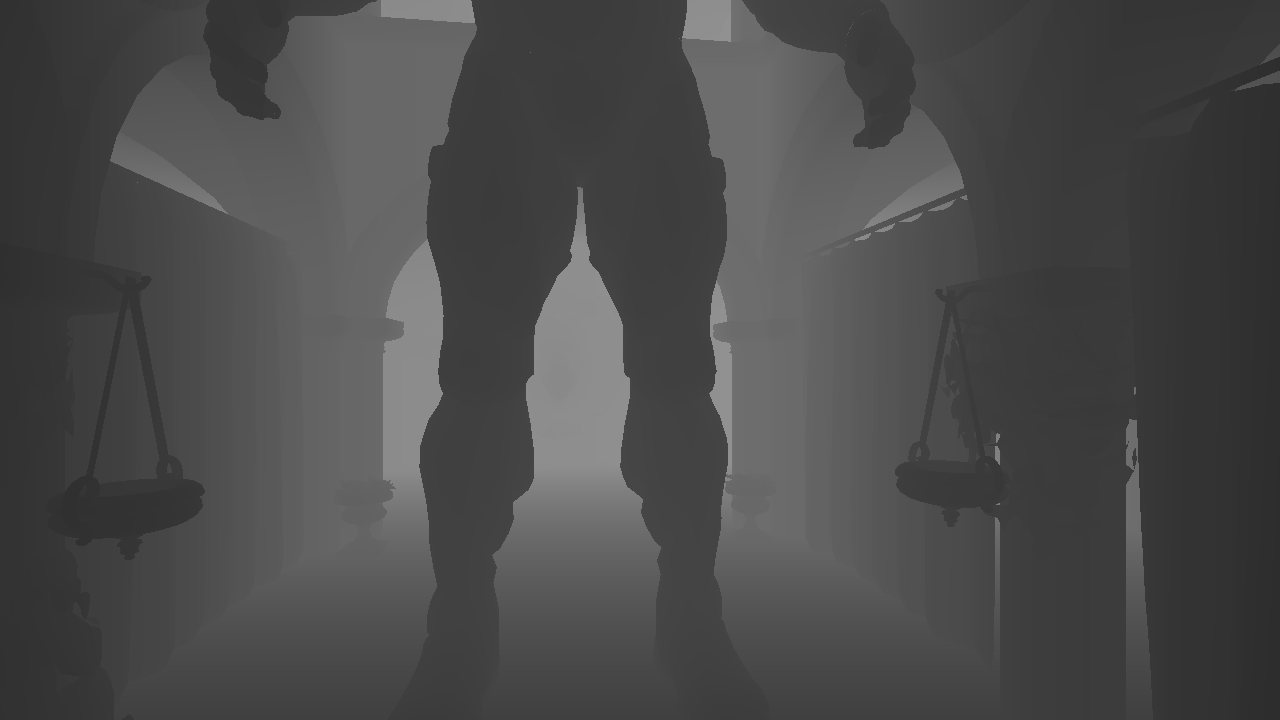
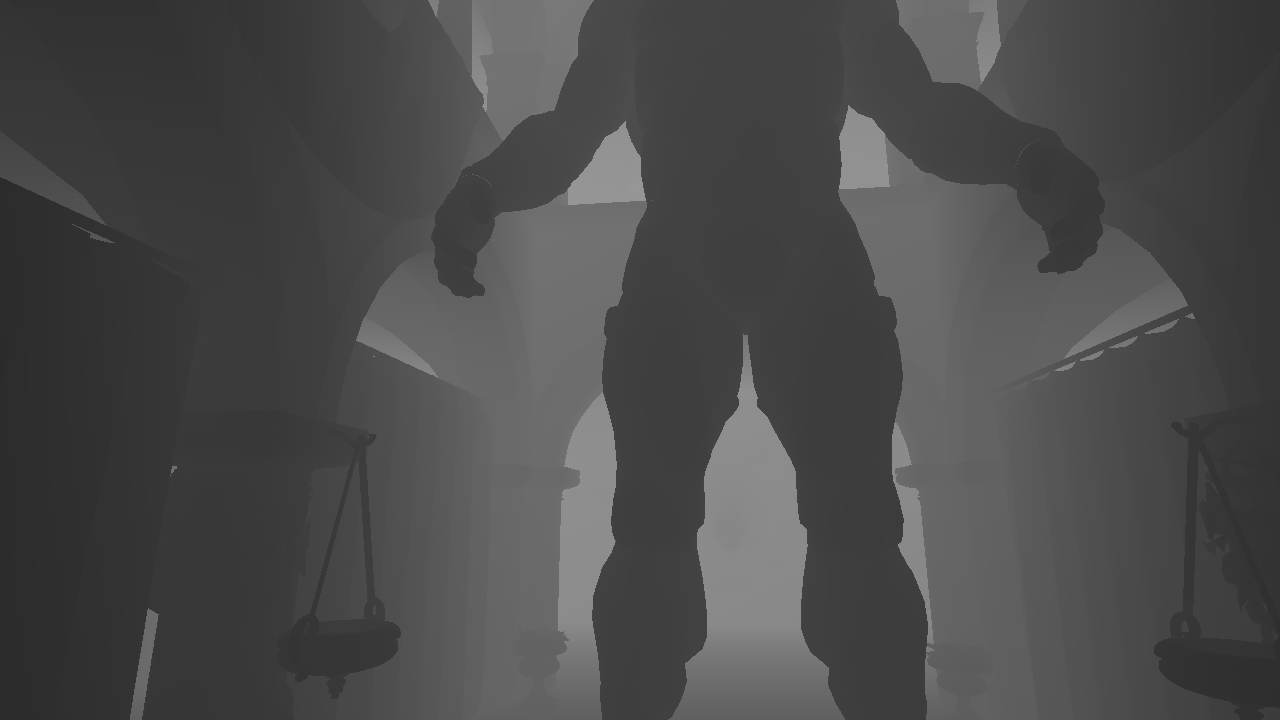
shadow camera transform to lambertian pass

diff --git a/hw3d/LambertianPass.h b/hw3d/LambertianPass.h
@@ -6,6 +6,8 @@
 #include "Source.h"
 #include "Stencil.h"
 #include "Camera.h"
+#include "DepthStencil.h"
+#include "ShadowCameraCBuf.h"
 
 class Graphics;
 
@@ -14,28 +16,38 @@ namespace Rgph
 	class LambertianPass : public RenderQueuePass
 	{
 	public:
-		void BindMainCamera(const Camera& cam) noexcept
-		{
-			pMainCamera = &cam;
-		}
 		LambertianPass(Graphics& gfx, std::string name)
 			:
-			RenderQueuePass(std::move(name))
+			RenderQueuePass(std::move(name)),
+			pShadowCBuf{ std::make_shared<Bind::ShadowCameraCBuf>(gfx) }
 		{
 			using namespace Bind;
+			AddBind(pShadowCBuf);
 			RegisterSink(DirectBufferSink<RenderTarget>::Make("renderTarget", renderTarget));
 			RegisterSink(DirectBufferSink<DepthStencil>::Make("depthStencil", depthStencil));
+			RegisterSink(DirectBindableSink<Bind::Bindable>::Make("shadowMap", pShadowMap));
 			RegisterSource(DirectBufferSource<RenderTarget>::Make("renderTarget", renderTarget));
 			RegisterSource(DirectBufferSource<DepthStencil>::Make("depthStencil", depthStencil));
 			AddBind(Stencil::Resolve(gfx, Stencil::Mode::Off));
 		}
+		void BindMainCamera(const Camera& cam) noexcept
+		{
+			pMainCamera = &cam;
+		}
+		void BindShadowCamera(const Camera& cam) noexcept
+		{
+			pShadowCBuf->SetCamera(&cam);
+		}
 		void Execute(Graphics& gfx) const noxnd override
 		{
 			assert(pMainCamera);
+			pShadowCBuf->Update(gfx);
 			pMainCamera->BindToGraphics(gfx);
 			RenderQueuePass::Execute(gfx);
 		}
 	private:
+		std::shared_ptr<Bind::ShadowCameraCBuf> pShadowCBuf;
+		std::shared_ptr<Bind::Bindable> pShadowMap;
 		const Camera* pMainCamera = nullptr;
 	};
 }

diff --git a/hw3d/ShadowCameraCBuf.cpp b/hw3d/ShadowCameraCBuf.cpp
@@ -1,0 +1,30 @@
+#include "ShadowCameraCBuf.h"
+#include "Camera.h"
+
+namespace dx = DirectX;
+
+namespace Bind
+{
+	ShadowCameraCBuf::ShadowCameraCBuf(Graphics& gfx, UINT slot)
+		:
+		pVcbuf{ std::make_unique<VertexConstantBuffer<Transform>>(gfx,slot) }
+	{
+	}
+	void ShadowCameraCBuf::Bind(Graphics& gfx) noxnd
+	{
+		pVcbuf->Bind(gfx);
+	}
+	void ShadowCameraCBuf::Update(Graphics& gfx)
+	{
+		const Transform t{
+			dx::XMMatrixTranspose(
+				pCamera->GetMatrix() * pCamera->GetProjection()
+			)
+		};
+		pVcbuf->Update(gfx, t);
+	}
+	void ShadowCameraCBuf::SetCamera(const Camera* p) noexcept
+	{
+		pCamera = p;
+	}
+}

diff --git a/hw3d/BlurOutlineRenderGraph.cpp b/hw3d/BlurOutlineRenderGraph.cpp
@@ -36,6 +36,7 @@ namespace Rgph
 		}
 		{
 			auto pass = std::make_unique<LambertianPass>(gfx, "lambertian");
+			pass->SetSinkLinkage("shadowMap", "shadowMap.map");
 			pass->SetSinkLinkage("renderTarget", "clearRT.buffer");
 			pass->SetSinkLinkage("depthStencil", "clearDS.buffer");
 			AppendPass(std::move(pass));
@@ -195,5 +196,6 @@ namespace Rgph
 	void Rgph::BlurOutlineRenderGraph::BindShadowCamera(Camera& cam)
 	{
 		dynamic_cast<ShadowMappingPass&>(FindPassByName("shadowMap")).BindShadowCamera(cam);
+		dynamic_cast<LambertianPass&>(FindPassByName("lambertian")).BindShadowCamera(cam);
 	}
 }

diff --git a/hw3d/ShadowCameraCBuf.h b/hw3d/ShadowCameraCBuf.h
@@ -1,0 +1,25 @@
+#pragma once
+#include "Bindable.h"
+#include "ConstantBuffers.h"
+
+class Camera;
+
+namespace Bind
+{
+	class ShadowCameraCBuf : public Bindable
+	{
+	protected:
+		struct Transform
+		{
+			DirectX::XMMATRIX ViewProj;
+		};
+	public:
+		ShadowCameraCBuf(Graphics& gfx, UINT slot = 3u);
+		void Bind(Graphics& gfx) noxnd override;
+		void Update(Graphics& gfx);
+		void SetCamera(const Camera* pCamera) noexcept;
+	private:
+		std::unique_ptr<VertexConstantBuffer<Transform>> pVcbuf;
+		const Camera* pCamera = nullptr;
+	};
+}

diff --git a/hw3d/Camera.h b/hw3d/Camera.h
@@ -16,6 +16,7 @@ public:
 	Camera(Graphics& gfx, std::string name, DirectX::XMFLOAT3 homePos = { 0.0f,0.0f,0.0f }, float homePitch = 0.0f, float homeYaw = 0.0f, bool tethered = false) noexcept;
 	void BindToGraphics(Graphics& gfx) const;
 	DirectX::XMMATRIX GetMatrix() const noexcept;
+	DirectX::XMMATRIX GetProjection() const noexcept;
 	void SpawnControlWidgets(Graphics& gfx) noexcept;
 	void Reset(Graphics& gfx) noexcept;
 	void Rotate(float dx, float dy) noexcept;

diff --git a/hw3d/RenderGraph.cpp b/hw3d/RenderGraph.cpp
@@ -109,6 +109,13 @@ namespace Rgph
 		{
 			const auto& inputSourcePassName = si->GetPassName();
 
+			if (inputSourcePassName.empty())
+			{
+				std::ostringstream oss;
+				oss << "In pass named [" << pass.GetName() << "] sink named [" << si->GetRegisteredName() << "] has no target source set.";
+				throw RGC_EXCEPTION(oss.str());
+			}
+
 			// check check whether target source is global
 			if (inputSourcePassName == "$")
 			{

diff --git a/hw3d/ShadowMappingPass.h b/hw3d/ShadowMappingPass.h
@@ -32,7 +32,7 @@ namespace Rgph
 			AddBind(NullPixelShader::Resolve(gfx));
 			AddBind(Stencil::Resolve(gfx, Stencil::Mode::Off));
 			AddBind(Blender::Resolve(gfx, false));
-			RegisterSource(DirectBindableSource<Bind::DepthStencil>::Make("shadowMap", depthStencil));
+			RegisterSource(DirectBindableSource<Bind::DepthStencil>::Make("map", depthStencil));
 		}
 		void Execute(Graphics& gfx) const noxnd override
 		{

diff --git a/hw3d/Camera.cpp b/hw3d/Camera.cpp
@@ -47,6 +47,11 @@ DirectX::XMMATRIX Camera::GetMatrix() const noexcept
 	return XMMatrixLookAtLH(camPosition, camTarget, XMVectorSet(0.0f, 1.0f, 0.0f, 0.0f));
 }
 
+DirectX::XMMATRIX Camera::GetProjection() const noexcept
+{
+	return proj.GetMatrix();
+}
+
 void Camera::SpawnControlWidgets(Graphics& gfx) noexcept
 {
 	bool rotDirty = false;
